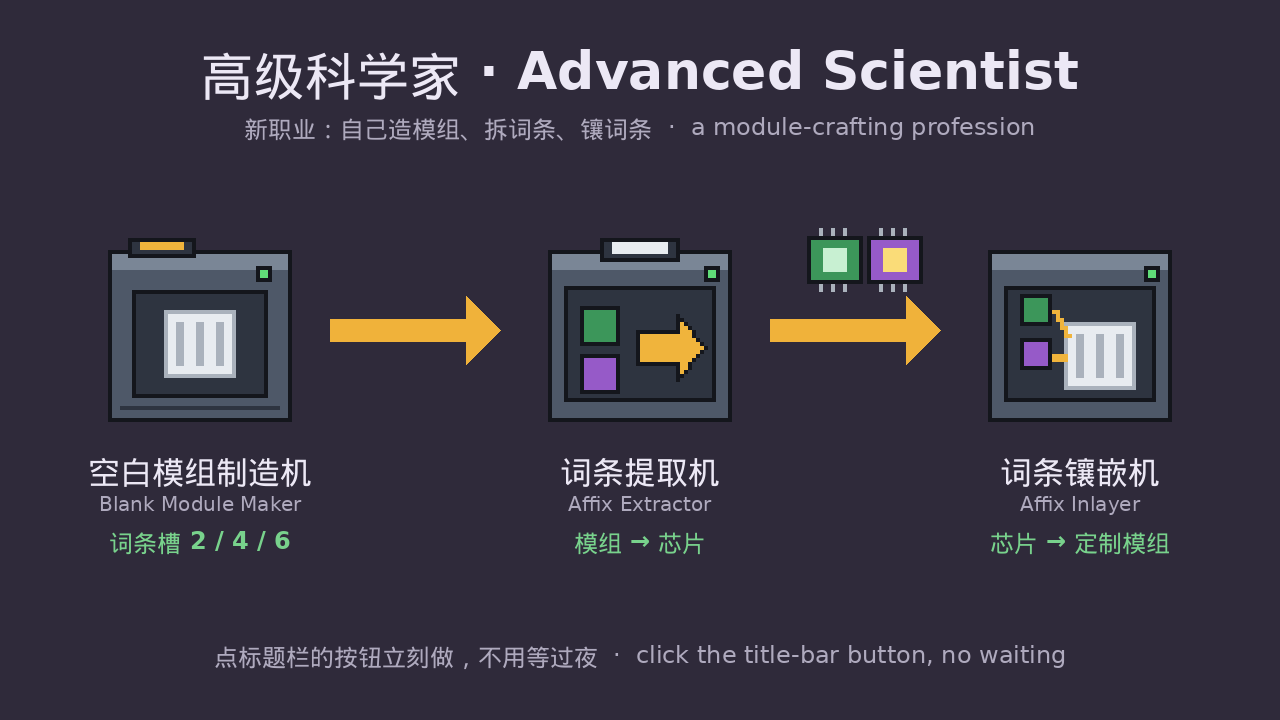
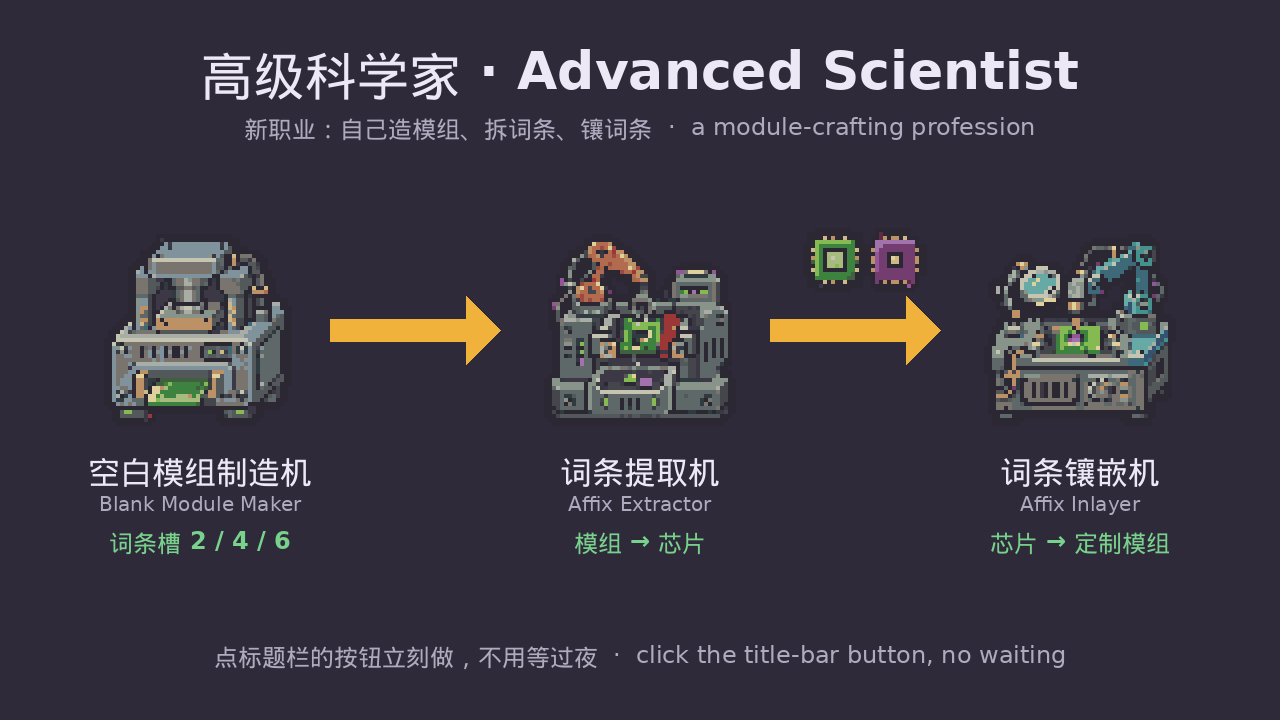
feat(advanced-scientist): 0.3.4 — 贴图改成游戏风格
用户：科学家的图标和道具也弄成游戏风格。
- 空白模组制造机、词条提取机、词条镶嵌机、基础芯片、特殊词条芯片：Codex 照游戏的模组、模组提取机械臂、增强芯片贴图重画
  （tools/sprite_prompt.md）。尺寸不变（机器 3×3、芯片 1×1），九格都铺满：已发布的 mod，存档里存着物品形状，改尺寸会让旧存档里的机器错位
- 职业图标：tools/make_icon.py，照游戏职业图标（19×19 单色圆圈，#292234）画，中间一块带针脚的芯片
- 删掉旧的程序画图脚本 tools/make_sprites.py（再跑会把新图覆盖）
- 创意工坊预览图用新贴图重画

已装进本地游戏，未实测，未上传。

Claude-Session: https://claude.ai/code/session_01TUCKVEKZpwSLVQ1NyZSMbd

diff --git a/mods/AdvancedScientist/tools/make_icon.py b/mods/AdvancedScientist/tools/make_icon.py
@@ -1,0 +1,53 @@
+"""职业图标 as_icon.png（19×19）：照游戏职业图标的样式（icons_*：单色 #292234，外面一个圆圈，中间一个小符号）。
+中间画一块带针脚的芯片（模组工艺）。用法：python3 tools/make_icon.py Textures/Items/as_icon.png"""
+import sys
+from PIL import Image
+
+INK = (41, 34, 52, 255)
+RING = [
+    ".......aaaaa.......",
+    ".....aa.....aa.....",
+    "...aa.........aa...",
+    "..aa...........aa..",
+    "..a.............a..",
+    ".a...............a.",
+    ".a...............a.",
+    "a.................a",
+    "a.................a",
+    "a.................a",
+    "a.................a",
+    "a.................a",
+    ".a...............a.",
+    ".a...............a.",
+    "..a.............a..",
+    "..aa...........aa..",
+    "...aa.........aa...",
+    ".....aa.....aa.....",
+    ".......aaaaa.......",
+]
+HAT = [          # 11 宽，从 (4, 4) 开始：一块芯片，四边是针脚，中间一个方形核心
+    "..a.a.a.a..",
+    ".aaaaaaaaa.",
+    "aa.......aa",
+    ".a.aaaaa.a.",
+    "aa.a...a.aa",
+    ".a.a.a.a.a.",
+    "aa.a...a.aa",
+    ".a.aaaaa.a.",
+    "aa.......aa",
+    ".aaaaaaaaa.",
+    "..a.a.a.a..",
+]
+im = Image.new("RGBA", (19, 19), (0, 0, 0, 0))
+px = im.load()
+for y, row in enumerate(RING):
+    for x, c in enumerate(row):
+        if c == "a":
+            px[x, y] = INK
+for y, row in enumerate(HAT):
+    for x, c in enumerate(row):
+        if c == "a":
+            px[4 + x, 4 + y] = INK
+out = sys.argv[1] if len(sys.argv) > 1 else "as_icon.png"
+im.save(out)
+print("icon:", out)

diff --git a/mods/AdvancedScientist/tools/sprite_prompt.md b/mods/AdvancedScientist/tools/sprite_prompt.md
@@ -1,0 +1,19 @@
+You are redrawing five item sprites for a mod of the pixel-art game "Probably Stolen" so they match the game's own art.
+Reference images in this folder (all scaled 6x):
+- `reference_modules.png`: real game sprites — machine modules (green/red PCB cards with a coloured side cap), a module extractor (robotic arm on a base), a small augment chip (16x16), electronic parts, a chemistry module, small PCB modules.
+- `reference_food_machines.png`: more real game sprites (food, a metal wine-rack machine, a plastic jug) for the general style.
+- `current_versions.png`: the mod's CURRENT flat placeholder sprites, from left: blank module maker, affix extractor, affix inlayer, base chip, affix chip, (icon — ignore). Keep their meaning, replace their look.
+Style: exactly like the game sprites — chunky pixels, muted palette, 1px dark outline (#2b2733), 2-3 tone shading, small details (screws, vents, LEDs, cables), no text, no anti-aliasing.
+
+Make (final PNG, RGBA, transparent background, alpha strictly 0 or 255, at most ~24 colours, EXACT size):
+1. as_blank_module_maker.png  48x48 - a small industrial fabricator that presses blank modules: metal housing with a press/stamp on top, a slot at the front with a half-finished bare green PCB card coming out, a little control panel with LEDs. Solid silhouette that covers the whole 48x48 square.
+2. as_affix_extractor.png     48x48 - a machine that pulls the "affixes" out of a module as chips: a metal base with a clamp holding a module card (like the game's modules), a small robotic probe/arm above it, and two tiny chips (one green, one purple) dropping into a tray. Covers the whole 48x48 square.
+3. as_affix_inlayer.png       48x48 - a machine that inlays chips into a blank module: a metal workbench base with a module card on a bed, a precision arm/soldering head placing a chip onto it, a magnifier lamp. Different silhouette/colour accent from the extractor. Covers the whole 48x48 square.
+4. as_chip_base.png           16x16 - a "base chip": a tiny square microchip on a GREEN PCB, gold pins, in the style of the game's 16x16 augment chip. Fill most of the 16x16 cell.
+5. as_chip_effect.png         16x16 - an "affix chip": same kind of tiny chip but on a PURPLE PCB with a small glowing yellow core. Fill most of the 16x16 cell.
+For the three 48x48 machines: EVERY 16x16 cell of the 3x3 grid must be well filled with opaque pixels — the item must read as a full 3x3 square (it is placed on a grid; empty cells would change its shape).
+
+Process: generate each with your image generation tool on a flat #FF00FF background (item large and centred), keep raw images in `raw/`,
+then with Python + Pillow crop to the item, fit to the exact target size (crisp, nearest-neighbour), key out the background, make alpha binary,
+quantize colours, enforce the 1px dark outline, and save with the exact file names in THIS folder.
+Then write `preview.png` (the five final sprites side by side on #3a3645, 6x nearest). Do not touch files outside this folder.

diff --git a/mods/AdvancedScientist/README.md b/mods/AdvancedScientist/README.md
@@ -7,7 +7,7 @@
 >
 > **Steam Workshop: [subscribe here](https://steamcommunity.com/sharedfiles/filedetails/?id=3837934061)**
 >
-> 0.3.3 (step two); the chip merger comes later.
+> 0.3.4 (step two); the chip merger comes later.
 
 UI in Chinese or English, following the game's language (Chinese shows Chinese, every other language shows English).
 
@@ -118,12 +118,14 @@ Uninstalling: in existing Advanced Scientist saves the three machines and the ch
 | `src/Progression.cs` | Dr. Jackson sells the extractor (`ModHook.OnPlaceInventorInventoryItemLate`); older saves get the inlayer |
 | `src/TwoDays.cs` | Two days per day in the Machine Bay (`ModHook.OnGoingSleepLate`: run the early / main / late passes again for machines in a bay) |
 | `src/ScientistMod.cs` | Entry point, settings, new item registration (`ModHook.OnModItemDirectoryInit`) |
-| `tools/make_sprites.py` | Generates the pixel art in `Textures/Items/` |
+| `tools/sprite_prompt.md` | Prompt for Codex to draw the machines and chips in the game's style |
+| `tools/make_icon.py` | Profession icon (the game's profession icon style: 19×19 one-colour circle + chip) |
 
 **Status**: builds and passes the game's mod scanner; **not yet tested in game**.
 
 ## Changelog
 
+- **0.3.4**: Sprites in the game's style: the three machines and two chips redrawn by Codex after the game's modules and robot arm (same sizes, old saves unaffected); profession icon now matches the game's round profession icons.
 - **0.3.3**: Recipes use Metal Ingots instead of Scrap Metal (2 / 4 / 6 each); mid / high values 390 / 590; the start kit gives 2 Metal Ingots. Fixed stale in-game descriptions: saves store item names and descriptions, so existing machines kept showing the old recipes; names and descriptions of this mod's machines, chips and blank modules are now refreshed on load for the current version and language. First Workshop release.
 - **0.3.2**: Recipes add wire: 2 / 4 / 6 each of Common Electronic Parts, Scrap Metal and Wire for low / mid / high; slots are now 2 / 4 / 6 (blank modules from older saves get the new count and name on load); materials grid 9×8 → 12×10; mid / high values 230 / 350; the start kit includes 2 wire.
 - **0.3.1**: Recipes now use only Common Electronic Parts + Scrap Metal: 2 / 4 / 6 of each for low / mid / high; materials grid 9×6 → 9×8 (the high recipe is 12 items of 3×2); mid / high blank values 170 / 260 to match the material cost.

diff --git a/mods/AdvancedScientist/README.zh-CN.md b/mods/AdvancedScientist/README.zh-CN.md
@@ -7,7 +7,7 @@
 >
 > **Steam 创意工坊：[点这里订阅](https://steamcommunity.com/sharedfiles/filedetails/?id=3837934061)**
 >
-> 0.3.3（第二步）；词条合成机后续加入。
+> 0.3.4（第二步）；词条合成机后续加入。
 
 界面中英双语，跟随游戏的语言设置（中文显示中文，其他语言显示英文）。
 
@@ -119,12 +119,14 @@
 | `src/Progression.cs` | 杰克逊博士卖提取机（`ModHook.OnPlaceInventorInventoryItemLate`）、给旧存档补发镶嵌机 |
 | `src/TwoDays.cs` | 机器区一天两天（`ModHook.OnGoingSleepLate` 里对机器区的机器再跑一遍早 / 主 / 晚三轮） |
 | `src/ScientistMod.cs` | 入口、配置、新物品登记（`ModHook.OnModItemDirectoryInit`） |
-| `tools/make_sprites.py` | 生成 `Textures/Items/` 下的像素图 |
+| `tools/sprite_prompt.md` | 让 Codex 照游戏贴图风格画机器和芯片的提示词 |
+| `tools/make_icon.py` | 职业图标（照游戏职业图标：19×19 单色圆圈 + 芯片） |
 
 **状态**：已编译、已通过游戏扫描器检查；**尚未进游戏实测**。
 
 ## 更新记录
 
+- **0.3.4**：贴图改成游戏风格：三台机器和两种芯片由 Codex 照游戏的模组、机械臂贴图重画（尺寸不变，旧存档不受影响）；职业图标改成和游戏职业图标一样的圆形小图标。
 - **0.3.3**：配方里的废金属换成金属锭（各 2 / 4 / 6 个）；中级、高级价值 390 / 590；开局送 2 个金属锭。修好游戏里的说明不更新：存档会把物品名字和说明一起存下来，读档时一直显示旧配方，现在读档时按当前版本和语言刷新本 mod 机器、芯片、空白模组的名字和说明。首次上传创意工坊。
 - **0.3.2**：配方加上线缆：低 / 中 / 高级各需普通电子元件、废金属、线缆 2 / 4 / 6 个；能镶的词条数改为 2 / 4 / 6（旧存档里做好的空白模组读档时自动变成新槽数、名字刷新）；材料格 9×8 → 12×10；中级、高级价值 230 / 350；开局多送 2 个线缆。
 - **0.3.1**：配方改为只用普通电子元件 + 废金属：低 / 中 / 高级各 2 / 4 / 6 个；材料格 9×6 → 9×8（高级要 12 件 3×2）；中级、高级空白模组价值改为 170 / 260，和材料成本相当。
